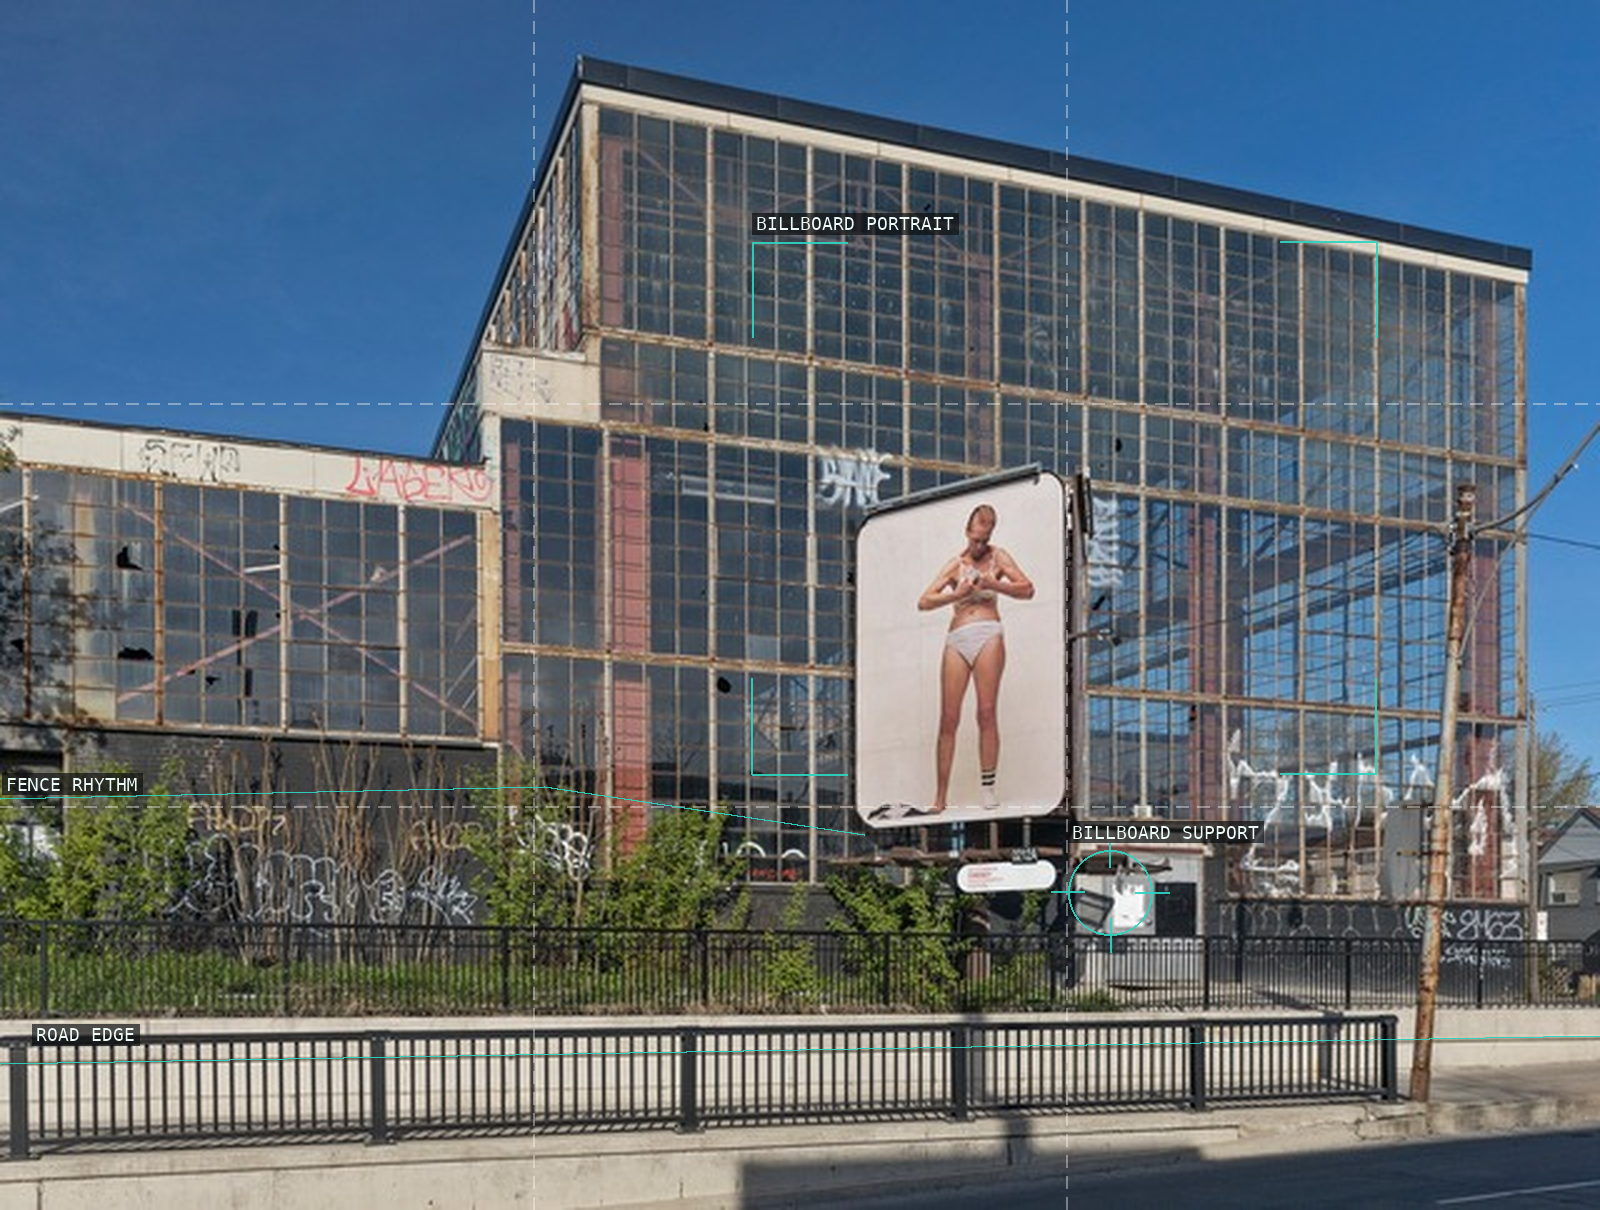
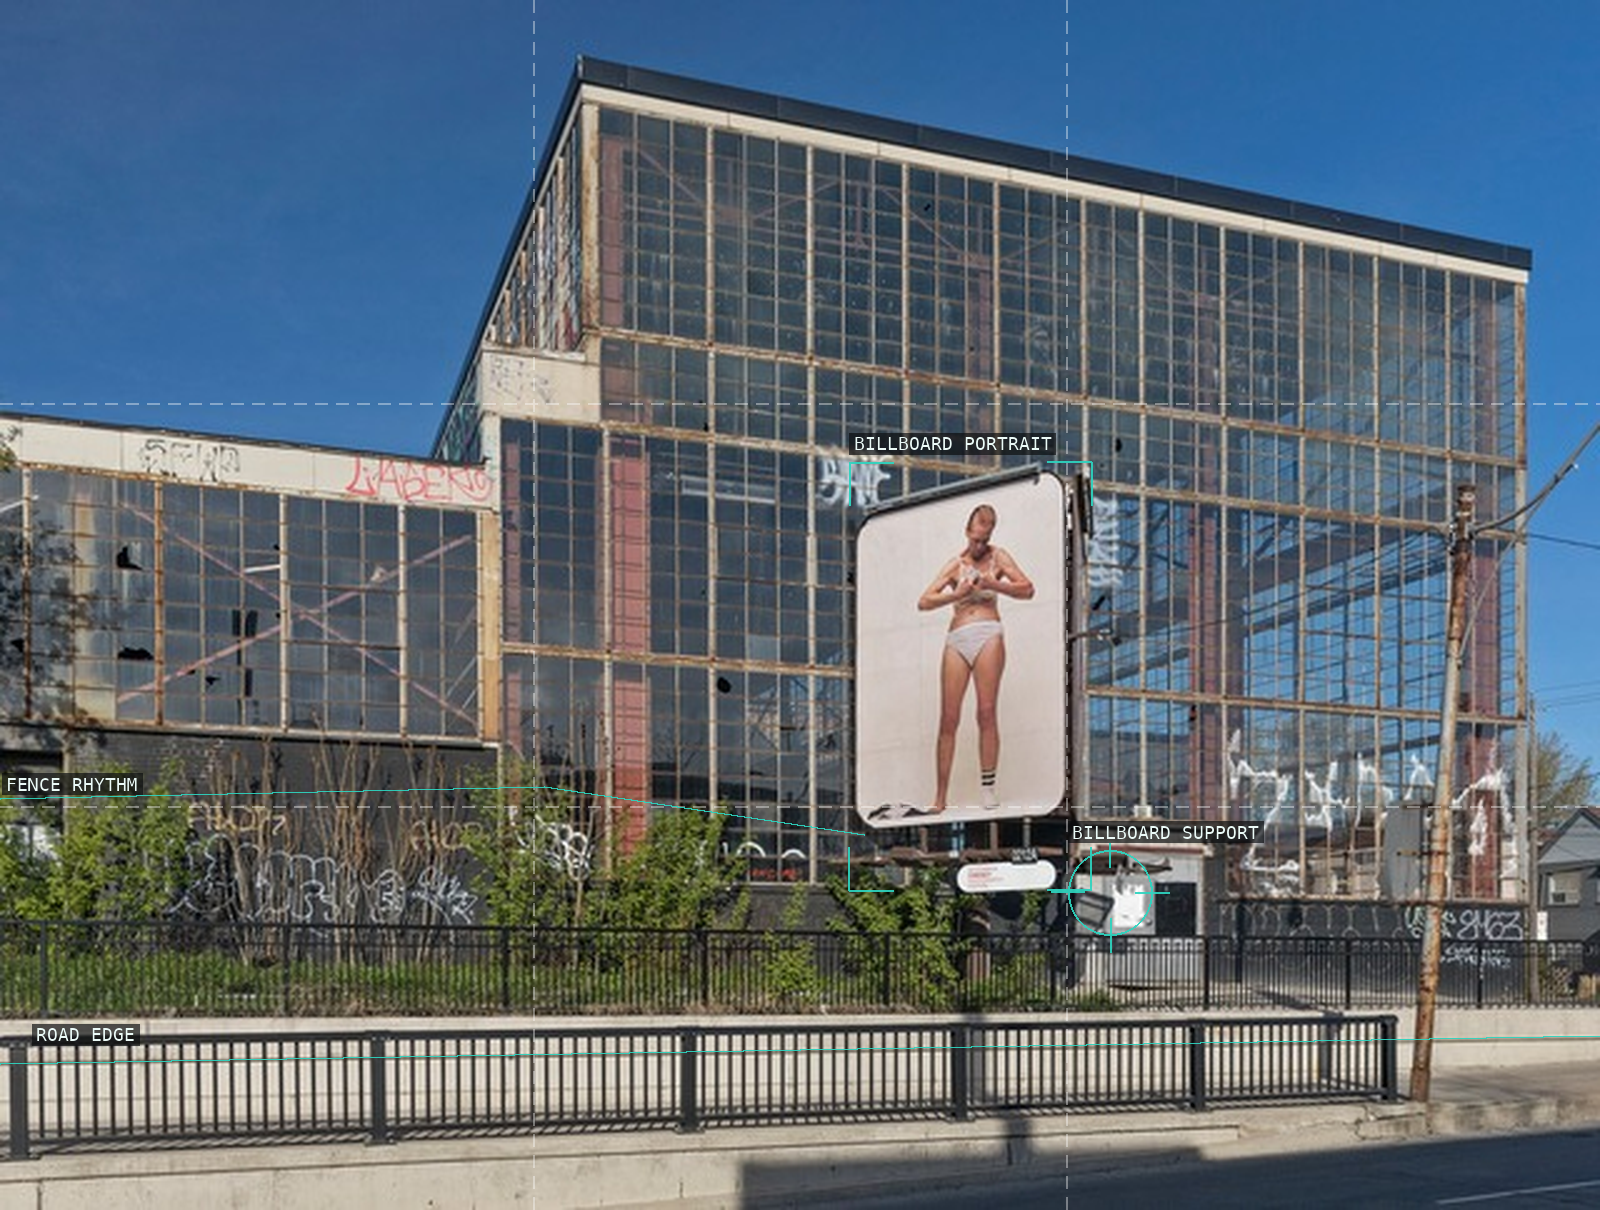
resolve critique: charlie-engman

Changed region(s): [[0.5312, 0.3364, 0.6875, 0.3975], [0.4688, 0.1529, 0.5938, 0.214]]

diff --git a/content/charlie-engman/critique.md b/content/charlie-engman/critique.md
@@ -1,4 +1,4 @@
-verdict: revise
+verdict: resolved
 
 ## Critique round — 2026-07-27
 
@@ -6,6 +6,13 @@ verdict: revise
 
 1. **`06-mom-on-the-ground-2` — remove or replace the `symmetry_axis` primitive and bring the accompanying sentence into the same truthful reading.** The teal vertical line at x0.438 is labelled “FOLDED BODY BALANCE,” but `symmetry_axis` asserts that the frame mirrors across that line. The visible curled pose is asymmetrical; the line passes through it without identifying a mirror structure. Use an appropriate subject/contour or balance claim instead, and revise the chapter's “near-vertical bodily balance” wording if necessary so it does not rely on an unsupported symmetry reading.
 2. **`11-mom-05` — redraw the `frame_in_frame` for “BILLBOARD PORTRAIT” to the actual billboard, or replace it with a truthful primitive.** The current bracket (`x: 0.47, y: 0.20, w: 0.39, h: 0.44`) encloses a broad section of factory façade and misses the lower portion of the sign. It therefore does not trace the internal billboard frame its label names.
+
+## Builder resolution — 2026-07-27
+
+1. `06-mom-on-the-ground-2`: replaced the unsupported vertical `symmetry_axis` with an `outstretched arm contour` polyline aligned to the visible arm, and revised the matching sentence in both chapter copies. The rendered proof is visually clean and scores 100/100.
+2. `11-mom-05`: redrew `BILLBOARD PORTRAIT` as the actual rounded sign (`x: 0.531`, `y: 0.382`, `w: 0.151`, `h: 0.354`), including its lower extent rather than the factory façade. The rendered proof is visually clean and scores 100/100.
+
+Re-verified prior critique rounds: 2026-07-27 (the complete critique history). Both required fixes hold; the chapter copies are byte-identical, and `scripts/check.sh` passed.
 
 ### Advisory (non-blocking)
 
